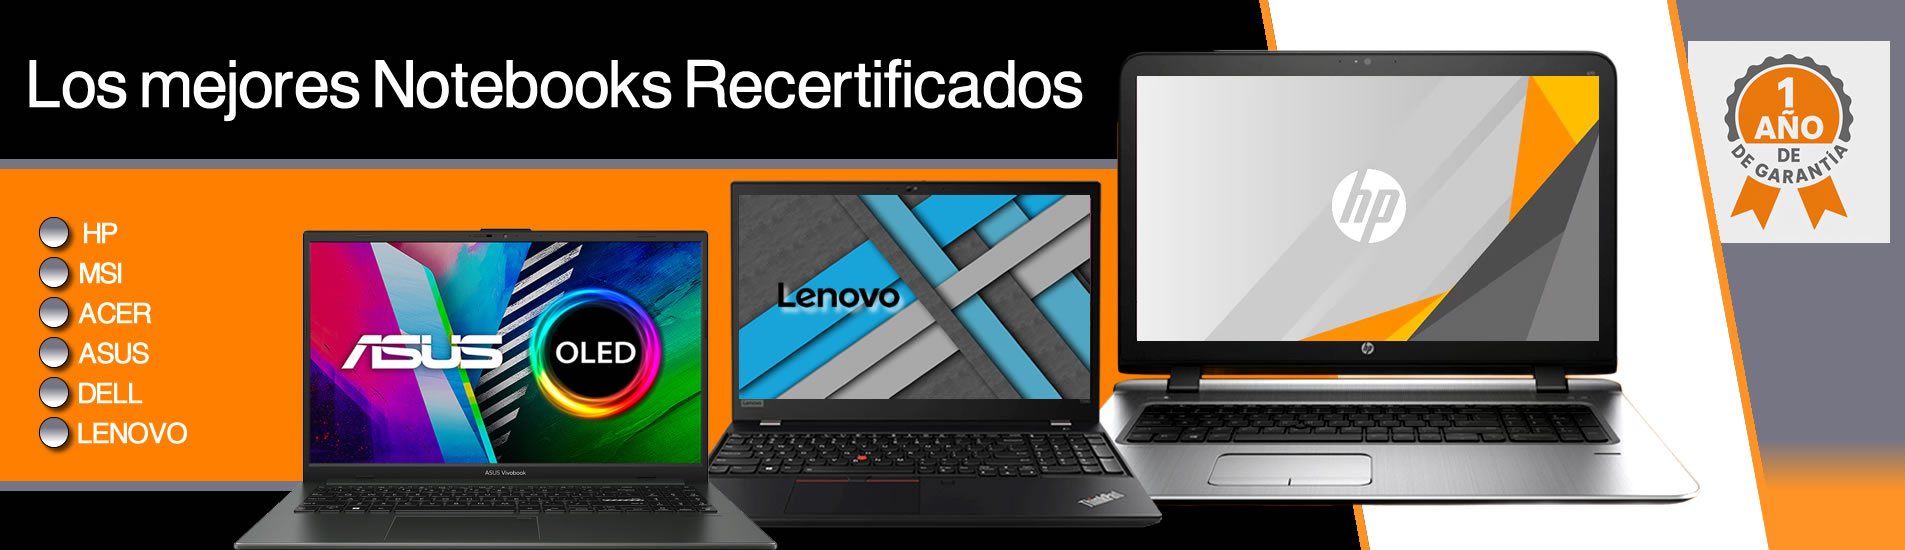
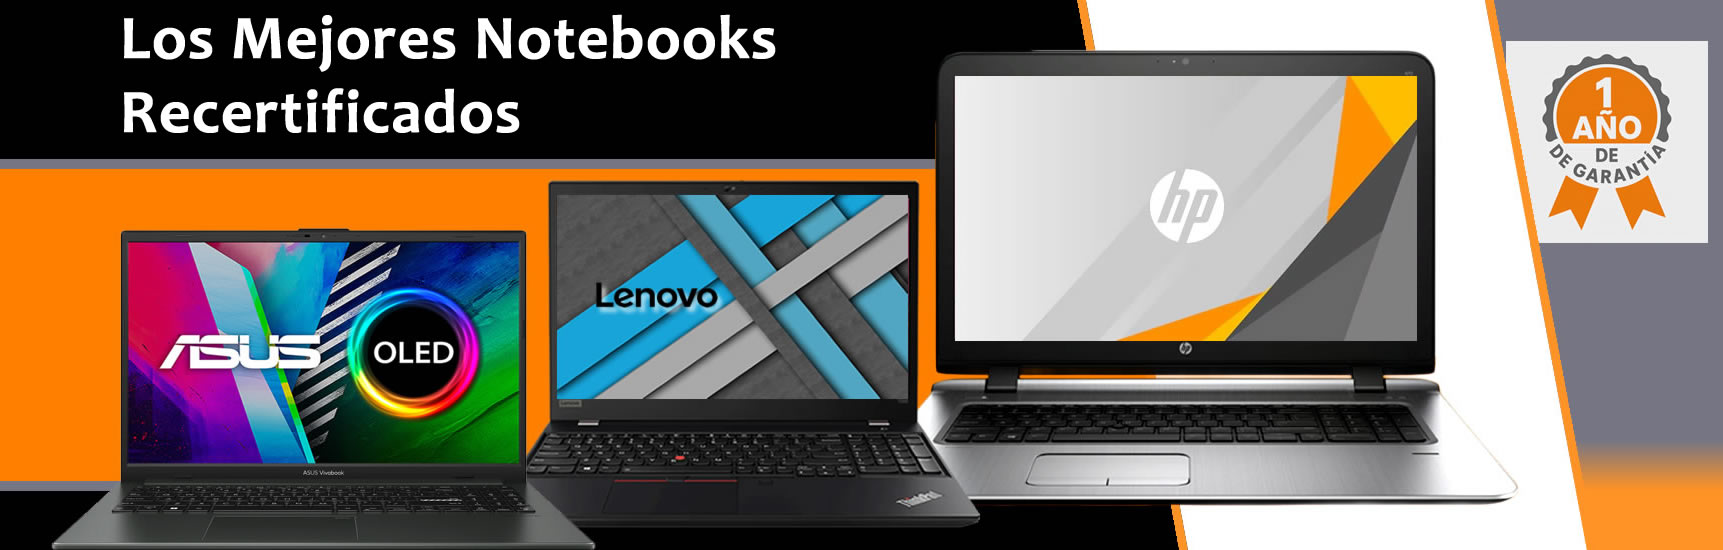
solucion de errores

diff --git a/Css/styles.css b/Css/styles.css
@@ -70,8 +70,8 @@ button {
 
 /* ==== HERO ==== */
 .hero {
-  background-image: url("https://www.infinit.com.uy/imgs/presentaciones/presentaciones0_6941.jpg?1745463371");
-  background-position: center center;
+  background-image: url("../img/presentaciones0_6941.jpg");
+  background-position: center;
   background-repeat: no-repeat; /* <-- Esto evita que la imagen se repita */
   background-size: cover; /* <-- Esto asegura el ajuste */
   display: flex;
@@ -81,7 +81,7 @@ button {
   min-height: 350px;
   color: #fff;
   padding: 3rem 2rem;
-  text-align: center;
+  position: relative;
 }
 
 .hero-content {
@@ -225,8 +225,12 @@ nav ul {
 
 @media (max-width: 768px) {
   .hero {
-    padding: 1.5rem 0.5rem;
     min-height: 180px;
+    padding: 1.5rem 0.5rem;
+    background-position: center top;
+  }
+  .hero-content {
+    padding: 0.7rem;
   }
   .hero-title-mobile {
     display: block;
@@ -251,8 +255,9 @@ nav ul {
 
 @media (max-width: 480px) {
   .hero {
-    padding: 1rem 0.2rem;
     min-height: 120px;
+    padding: 1rem 0.2rem;
+    background-position: center top;
   }
   .hero-title-mobile {
     font-size: 1.1rem;
